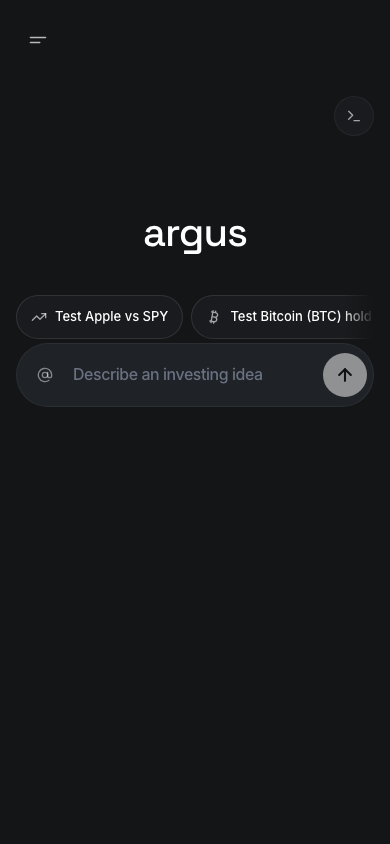
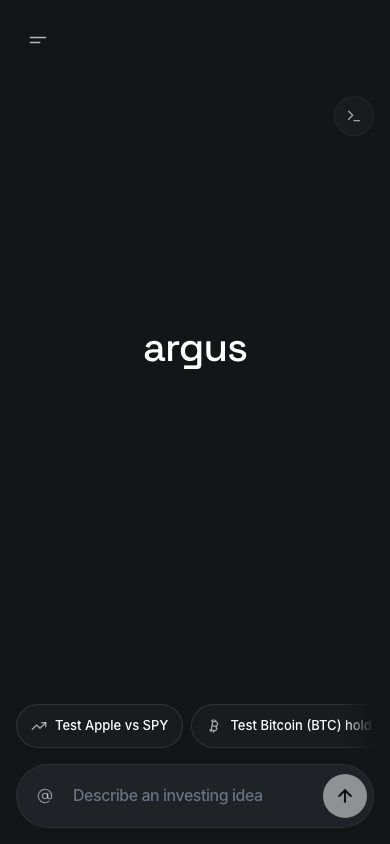
fix(mobile): settle the composer and starter pills on the bottom edge
The empty chat surface kept its desktop composition on a phone: a tall vh top
inset pushed the composer to the middle of the screen with a void beneath it,
which puts the one control a user reaches for out of thumb range.

Below the mobile threshold the heading now absorbs the free space, which settles
the pills and the composer onto the bottom edge, with the home indicator kept
clear by a safe-area inset. Tablet and up keep the centered composition exactly.

The tall inset is now expressed as a min-width variant rather than a base value
that a narrow-screen rule has to override. The first attempt did override it,
and `sm:pt-[28vh]` won the cascade from 400px up, so the composer stayed
mid-screen across most real phone widths while a 375px screenshot looked
correct. Measured across the band after the change: 24px top and a 16px
safe-area bottom from 375 through 719, the tall inset from 720 up, and the
composer ending 16px above the fold at 390, 414, and 703.

diff --git a/web/components/chat/EmptyChatSurface.tsx b/web/components/chat/EmptyChatSurface.tsx
@@ -48,9 +48,15 @@ export default function EmptyChatSurface({
   const disabled =
     isStreamingResponse || isHydratingConversation || guestSubmissionPending;
 
+  // The tall top inset belongs to tablet and up. Expressing it as a min-width
+  // variant rather than overriding a base value keeps `sm:` from winning the
+  // cascade between 400 and 719px, where most phones actually sit.
   return (
-    <div className="flex h-full flex-col items-center justify-start overflow-y-auto px-4 pb-8 pt-[24vh] sm:pt-[28vh]">
-      <div className="order-1 flex w-full flex-col items-center">
+    <div className="flex h-full flex-col items-center justify-start overflow-y-auto px-4 pb-[max(1rem,env(safe-area-inset-bottom))] pt-6 tablet:pb-8 tablet:pt-[28vh]">
+      {/* The heading absorbs the free space below the mobile threshold, which
+          settles the pills and the composer onto the bottom edge where a thumb
+          rests. Above it, the surface keeps its centered composition. */}
+      <div className="order-1 flex w-full flex-col items-center max-tablet:flex-1 max-tablet:justify-center">
         <EmptyChatHeading isGuest={isGuest} />
       </div>
 
@@ -104,7 +110,7 @@ export default function EmptyChatSurface({
 
       {/* Thumb-reachable above the composer on narrow screens, and in its
           familiar place under the composer from tablet up. */}
-      <div className="order-2 w-full max-w-2xl tablet:order-3">
+      <div className="order-2 w-full max-w-2xl max-tablet:mb-3 tablet:order-3">
         <StarterActions
           disabled={disabled}
           onSelect={onSend}

diff --git a/web/__tests__/mobile-shell-layout.test.tsx b/web/__tests__/mobile-shell-layout.test.tsx
@@ -408,9 +408,25 @@ describe("activity rail and starter pills", () => {
     // One instance, placed by flex order: pills before the composer on narrow,
     // after it from tablet up.
     expect(surface.match(/<StarterActions/g)?.length).toBe(1);
-    expect(surface).toContain('className="order-2 w-full max-w-2xl tablet:order-3"');
+    expect(surface).toContain("order-2 w-full max-w-2xl max-tablet:mb-3 tablet:order-3");
     expect(surface).toContain('className="order-3 w-full max-w-2xl tablet:order-2"');
     expect(surface).toContain('layout={isBelowTablet ? "scroll" : "wrap"}');
+  });
+
+  test("the composer and pills settle on the bottom edge below the threshold", () => {
+    const surface = readFileSync(
+      join(import.meta.dir, "../components/chat/EmptyChatSurface.tsx"),
+      "utf-8",
+    );
+    // The heading absorbs the free space, which pushes the pair to the bottom.
+    expect(surface).toContain("max-tablet:flex-1 max-tablet:justify-center");
+    // The home indicator must not sit on top of the composer.
+    expect(surface).toContain("pb-[max(1rem,env(safe-area-inset-bottom))]");
+    // The tall inset is a min-width variant, never a base value a `sm:` rule
+    // could win back between 400 and 719px.
+    expect(surface).toContain("tablet:pt-[28vh]");
+    expect(surface).not.toContain("sm:pt-[28vh]");
+    expect(surface).not.toContain("pt-[24vh]");
   });
 
   test("suggestion rows clamp to two lines, never one", () => {
